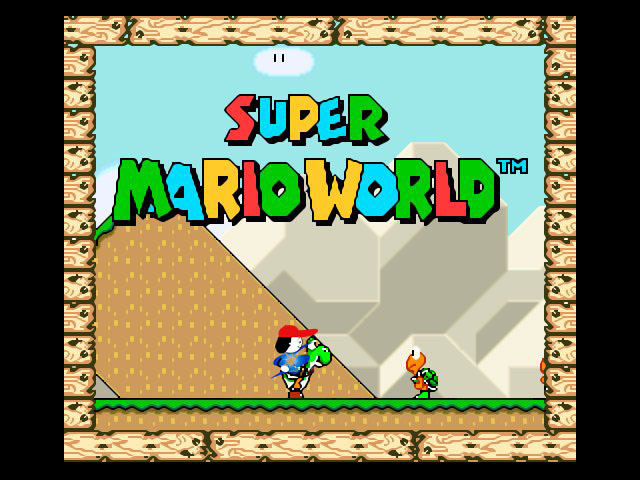
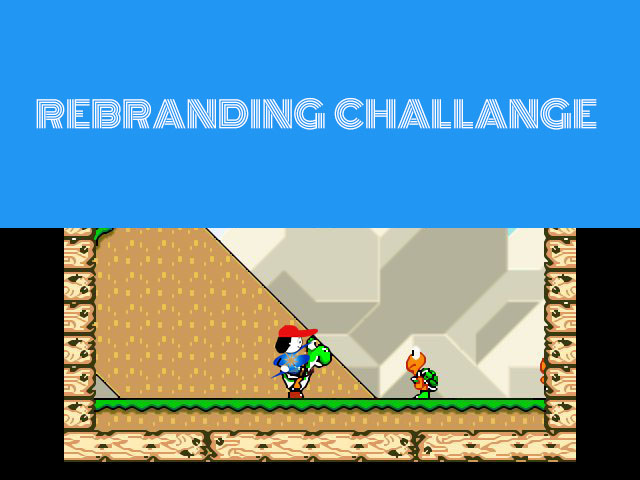
changed UI

diff --git a/custom.css b/custom.css
@@ -1,59 +1,119 @@
 body {
-	/*background:#f1f1f1;*/
+/*	background:#f1f1f1;*/
 	background: url("images/bg.jpg");
 	background-size: contain;
+	/*background-color: #222222;
+	background: repeating-linear-gradient(45deg, #2b2b2b 0%, #2b2b2b 10%, #222222 0%, #222222 50%) 0 / 15px 15px;	*/
 }
 .leftWrapper{
 	float: left;
 	height: 100vh;
 	background:#f1f1f1;
 	padding: 40px;
-	width: 180px;
+	width: 400px;
 	position: relative;
+	font-family: sans-serif;
+	box-shadow: 2px 2px 2px lightslategrey;
 }
-h3.supermariolove {
-	position: absolute;
-	top: 5vh;	
-	margin-left: 15px;
+.leftWrapper .quote{	
+	font-family: Pacifico;
+	font-size: 1.2rem;
 }
-
-h3.workhardplayharder {
-	position: absolute;
-	top: 15vh;	
-	margin-left: -5px;
-}
-h3.siriusrebranding {
-	position: absolute;
-	top: 28vh;	
-	margin-left: 30px;
-}
-h3.lovetowork {
-	position: absolute;
-	bottom: 40vh;
-	margin-left: 10px;
-}
-h3.freedomofwork {
-	position: absolute;
-	bottom: 50vh;
-	margin-left: 30px;
+.leftWrapper .quoteBy {
+	font-size: 1rem;
 }
 .leftWrapper img {
     width: 220px;
     height: auto;
     position: absolute;
-    top: 50vh;
-    margin-top: -73px;
+    top: 30px;
     left: 50%;
     margin-left: -110px;
 }
-.leftWrapper img.playbutton {
-	width: 160px;
-	height: auto;
-	position: absolute;
-	bottom: 23vh;
+.leftWrapper h1 {
+	margin-top: 113px;
+	text-align: center;
+	font-weight: 500;
+}
+.leftWrapper h2 {
+	text-align: center;
+}
+.leftWrapper p {
+	font-family: sans-serif;
+	font-size: 1rem;
+	text-align: justify;
+}
+.leftWrapper img.logoHistory {
+	position: relative;
+    width: 440px;
     top: initial;
-    margin-top: 0;
-    margin-left: -80px;	
+    left: initial;
+    margin-left: -20px;	
+}
+
+
+.centerWrapper {
+    padding: 20px;
+    float: left;
+    width: calc(100vw - 520px);
+    position: relative;
+    text-align: center;
+}
+.centerWrapper .contentRow {
+	margin-bottom: 20px;
+    background: #ffd424;
+    border-radius: 20px; 
+   position: relative;
+   -moz-border-radius:    10px;
+   -webkit-border-radius: 10px;
+   border-radius:         10px;
+   box-shadow: 2px 2px 2px black;
+}
+.centerWrapper .contentRow:before {
+   content:"";
+   position: absolute;
+   right: 100%;
+   top: 65px;
+   width: 0;
+   height: 0;
+   border-top: 13px solid transparent;
+   border-right: 26px solid #ffd424;
+   border-bottom: 13px solid transparent;
+}
+.centerWrapper .contentRow:after {
+	content: " ";
+	display: block;
+	clear: both;
+	height: 0;
+	visibility: hidden;
+}
+.centerWrapper .contentRow img{
+	width: 70px;
+    padding: 15px;
+    border-radius: 10px;
+    float: left;
+}
+.centerWrapper .contentRow .rules{	
+	float: right;
+    width: calc(100% - 140px);
+    text-align: left;
+    font-family: Audiowide;
+    font-weight: 400;
+    font-size: 0.9rem;
+    line-height: 1.5;
+    padding: 0 0 15px;
+}
+.centerWrapper .contentRow .rules h3{	
+	font-size: 1.1rem;
+}	
+.centerWrapper img.playbutton {
+	width: 260px;
+	height: auto;
+	margin-top: 20px;
+/*	position: absolute;
+    bottom: -20vh;
+    margin-left: -130px;
+    left: 50%;	*/
 	animation: shake 0.82s cubic-bezier(.36,.07,.19,.97) both;
 	transform: translate3d(0, 0, 0);
 	backface-visibility: hidden;
@@ -62,40 +122,36 @@ h3.freedomofwork {
 	animation-iteration-count: infinite;
 	-webkit-animation-duration: 1s;
 	-webkit-animation-iteration-count: infinite;
-    box-shadow: 2px 4px 8px lightgrey;
+	border: 5px solid white;
+}
+.centerWrapper p.marioLogo {
+	text-align: center;
 }
 
-.rightWrapper {
-	float: right;
-	height: 100vh;
-}
-.rightWrapper img {
-	height: 250px;
-	display: inline-block;
-	width: auto;
-	margin-top: calc(50vh - 250px);
-    margin-right: 30px;
-}
-.centerWrapper {
-    padding: 20px;
-    float: left;
-    width: calc(100vw - 300px);
-}
-.centerWrapper img.marioLogo {
-	width: 300px;
-	height: auto;
-	margin-left: calc(50% - 150px);
-    margin-top: 30px;
+.centerWrapper p.marioLogo a {
+  font-size: 5.5rem;
+  color: rgba(255,255,255,0.7);
+  font-family: Monoton;
+  text-decoration: none;
 }
 
-div.centerWrapper p {
-	font-size: 16px;
-	text-align: justify;    
-	padding: 20px 40px;
-	background: rgba(255,255,255,0.8);
-	font-family: sans-serif;
+.centerWrapper p.marioLogo a:hover {
+  -webkit-animation: neon 1.5s ease-in-out infinite alternate;
+  -moz-animation: neon 1.5s ease-in-out infinite alternate;
+  animation: neon 1.5s ease-in-out infinite alternate;
+}
+.centerWrapper p a:hover {
+  color: rgba(255,255,255,0.7);
 }
 
+@-webkit-keyframes neon {
+  from {
+    text-shadow: 0 0 10px rgba(255,255,255,0.6), 0 0 20px rgba(255,255,255,0.6), 0 0 30px rgba(255,255,255,0.6), 0 0 40px #228DFF, 0 0 70px #228DFF, 0 0 80px #228DFF, 0 0 100px #228DFF, 0 0 150px #228DFF;
+  }
+  to {
+    text-shadow: 0 0 5px rgba(255,255,255,0.6), 0 0 10px rgba(255,255,255,0.6), 0 0 15px , 0 0 20px #228DFF, 0 0 35px #228DFF, 0 0 40px #228DFF, 0 0 50px #228DFF, 0 0 75px #228DFF;
+  }
+}
 
 @keyframes shake {
   10%, 90% {
@@ -113,4 +169,14 @@ div.centerWrapper p {
   40%, 60% {
     transform: translate3d(4px, 0, 0);
   }
+}
+.siriusBrandingBG {
+	background: url("images/Background.jpg");
+    background-size: cover;
+}
+.siriusLogo {
+    position: absolute;
+    top: 40px;
+    height: 80px;
+    left: 40px;
 }

diff --git a/index.html b/index.html
@@ -10,7 +10,8 @@
 		<link rel="stylesheet" href="controlls.css" type="text/css" media="screen, projection" />
 		<link rel="stylesheet" href="Cookie.css" type="text/css" media="screen, projection" />
         <link rel="stylesheet" href="custom.css" type="text/css" media="screen, projection" />        
-		
+		<link href='https://fonts.googleapis.com/css?family=Audiowide|Iceland|Monoton|Pacifico|Press+Start+2P|Vampiro+One' rel='stylesheet' type='text/css'>
+
 <!--[if lte IE 8]>
         <link rel="stylesheet" href="layout_ie_lte_8.css" type="text/css" media="screen, projection" />
         <![endif]-->
@@ -66,28 +67,37 @@
 
         <div class="leftWrapper">
             <img src="images/siriusLogo.png">
-            <h3 class="supermariolove">#supermariolove</h3>
-            <h3 class="workhardplayharder">#WorkhardplayHARDER</h3>
-            <h3 class="siriusrebranding">#siriusrebranding</h3>
-            <h3 class="lovetowork">#lovetowork</h3>          
-            <h3 class="freedomofwork">#freedomofwork</h3>      
-            <a href="mario.html"><img class="playbutton"src="images/Play-Now.png"></a>                  
+            <h1>Sirius Rebrands for First Time in Almost 20 Years</h1> 
+            <p>
+            Sirius has changed a lot since we last updated our brand in 1997. We have evolved from a value-added reseller to an integrator of best-of-breed business and data center solutions that are built on technologies from the world’s leading providers, and implemented by the industry’s deepest bench of services professionals. That’s why we are launching a rebranding effort that supports and extends our unique story. We are excited to unveil our updated brand, which includes a new tagline and logo. This transformation illustrates our company’s evolution, and further represents our roadmap for the future.</p> <br/>
+            <!-- <h2>Logos Over the Years</h2>
+            <img src="images/LogoHistory.png" class="logoHistory"> -->
+            <span class="quote">
+                <b>“</b>Sirius continues to grow and evolve. This updated branding helps us stay fresh, reflects our evolution, and represents the heart of who Sirius really is.<b>”</b> 
+            </span>
+            <p class="quoteBy">
+                – Michael Harwood, Senior VP of Marketing, Sirius
+            </p>
         </div>        
         <div class="centerWrapper">
-            <img src="images/Super-Mario-Logo.png" class="marioLogo">
-
-            <p>
-            <b>Sirius Rebrands for First Time in Almost 20 Years</b><br/><br/>   
-            Sirius has changed a lot since we last updated our brand in 1997. We have evolved from a value-added reseller to an integrator of best-of-breed business and data center solutions that are built on technologies from the world’s leading providers, and implemented by the industry’s deepest bench of services professionals. That’s why we are launching a rebranding effort that supports and extends our unique story. We are excited to unveil our updated brand, which includes a new tagline and logo. This transformation illustrates our company’s evolution, and further represents our roadmap for the future.
-                    <br/><br/>
-                    <b>Game Rules</b>
-                    <br/><br/>
-                    - Play the game and challenge your friends to break you score record.<br/>
-                    - Take a screenshot of your score and tag your friends to challenge. 
-                    <br/><br/>
-                    <b>DISCLAIMER</b>
-                    <br/><br/>
-                    This game is ment just for fun and is created out of my interest. Any resemblance to living or dead persons would therefore be purely coincidental and was not intended. Thanks to florian-rappl.de for open sourcing the code.
+              <p class="marioLogo"><a href="#">Sirius  Mario</a></p>
+              <div class="contentRow">
+                    <img src="images/charecter_front.png">
+                    <div class="rules">
+                    <h3>Game Rules</h3>
+                    - There will be 3 lifes for each attempt.<br/>
+                    - At the end of the game, take a screenshot of your score and challenge your friends to break you score record.<br/>
+                    - Have fun !!
+                    </div>
+              </div>
+              <div class="contentRow">
+                    <img src="images/charecter_side.png">
+                    <div class="rules">
+                        <h3>DISCLAIMER</h3>
+                        This game is ment just for fun and is created out of my interest. Any resemblance to living or dead persons would therefore be purely coincidental and was not intended. Thanks to florian-rappl.de for open sourcing the code.
+                    </div>
+              </div>
+              <a href="mario.html"><img class="playbutton"src="images/Play-Now.png"></a>                    
             </p>
         </div>
     </body>

diff --git a/mario.html b/mario.html
@@ -9,23 +9,23 @@
 		<link rel="stylesheet" href="game.css" type="text/css" media="screen, projection" />
 		<link rel="stylesheet" href="controlls.css" type="text/css" media="screen, projection" />
 		<link rel="stylesheet" href="Cookie.css" type="text/css" media="screen, projection" />
-		
+       <link rel="stylesheet" href="custom.css" type="text/css" media="screen, projection" /> 		
 <!--[if lte IE 8]>
         <link rel="stylesheet" href="layout_ie_lte_8.css" type="text/css" media="screen, projection" />
         <![endif]-->
         
         <link rel="shortcut icon" type="image/x-icon" href="icon.ico" />
 
-<title>Super Mario World</title>
+<title>Sirius Mario</title>
 		
 	</head>
 	
-	<body>
+	<body class="siriusBrandingBG">
 		<div id="loading">
-        	Super Mario World Loading...<br /><br />
+        	Sirius Mario World Loading...<br /><br />
             <noscript>This game is developed using JavaScript!</noscript>
         </div>
-
+        <img src="images/siriusLogo.png" class="siriusLogo">
 		<canvas id="canvas" style="display: none;"></canvas>
 		
 		<!-- Game Musik -->
